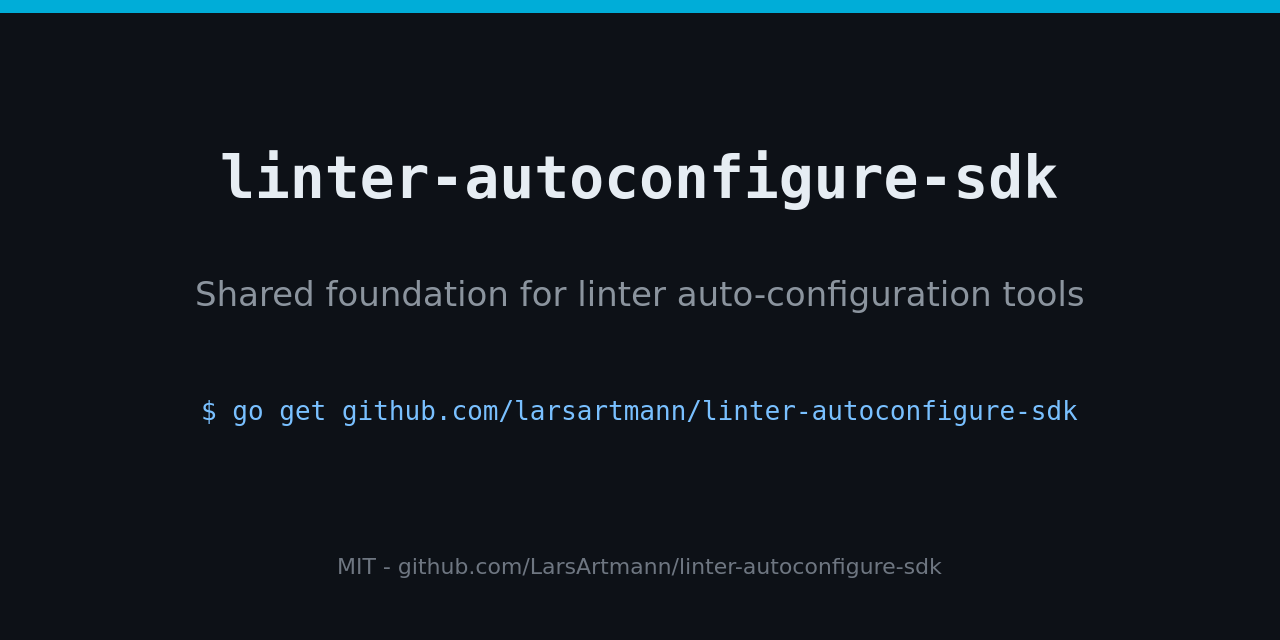
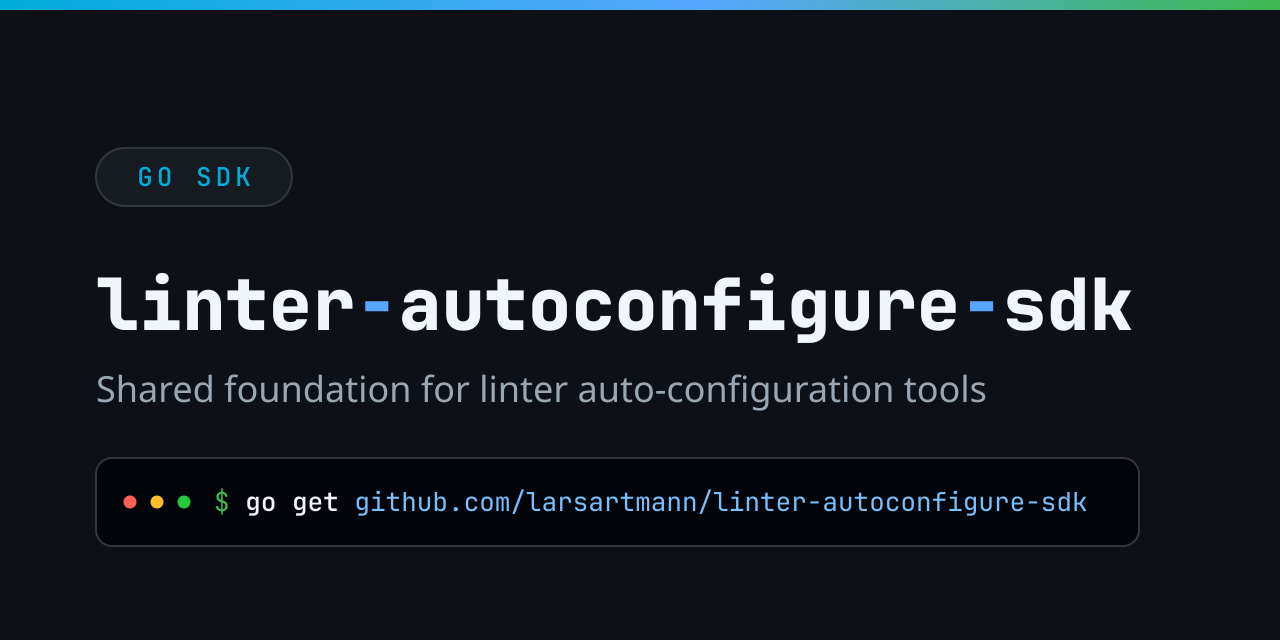
chore: auto-commit 3 changed file(s) (heuristic)

diff --git a/TODO_LIST.md b/TODO_LIST.md
@@ -15,4 +15,4 @@ pkg.go.dev `v0.1.0` page renders (two-value `SaveJSON`, `ExampleSaveJSON`).
 | --- | ---------------------------------------------------------------------------------------------------------------------------------------------------- | ------ | ------ | ------------------------------------------------------------------------ |
 | T20 | Remove the deprecated `ErrNoRepair` alias at v1 (compile-compat shim; SDK never returns it; canonical signal is nil `toolsdk.Spec.Repair`)             | Low    | S      | `autoconfigure.go` ErrNoRepair; CHANGELOG `[0.1.0]`                      |
 | T21 | Switch CI to `buildflow --fix --fail-on-findings` once BuildFlow is publicly installable (runners cannot fetch the private module today; re-checked 2026-09-11, still private) | High   | S      | TODO_LIST T3 residue; `.github/workflows/ci.yml` header comment          |
-| T23 | Upload `assets/branding/social-preview.png` as the GitHub social preview (Settings → General → Social preview → Edit → Upload an image; no deep URL exists; no API)                                    | Low    | S      | flip report f30-32; asset verified 2026-09-11: 1280x640, 106KB (< 1MB GitHub limit)                             |
+| T23 | Upload `assets/branding/social-preview.png` as the GitHub social preview (Settings → General → Social preview → Edit → Upload an image; no deep URL exists; no API)                                    | Low    | S      | flip report f30-32; redesigned 2026-09-11; source is social-preview.svg; 1280x640, 56KB (< 1MB limit)                             |
